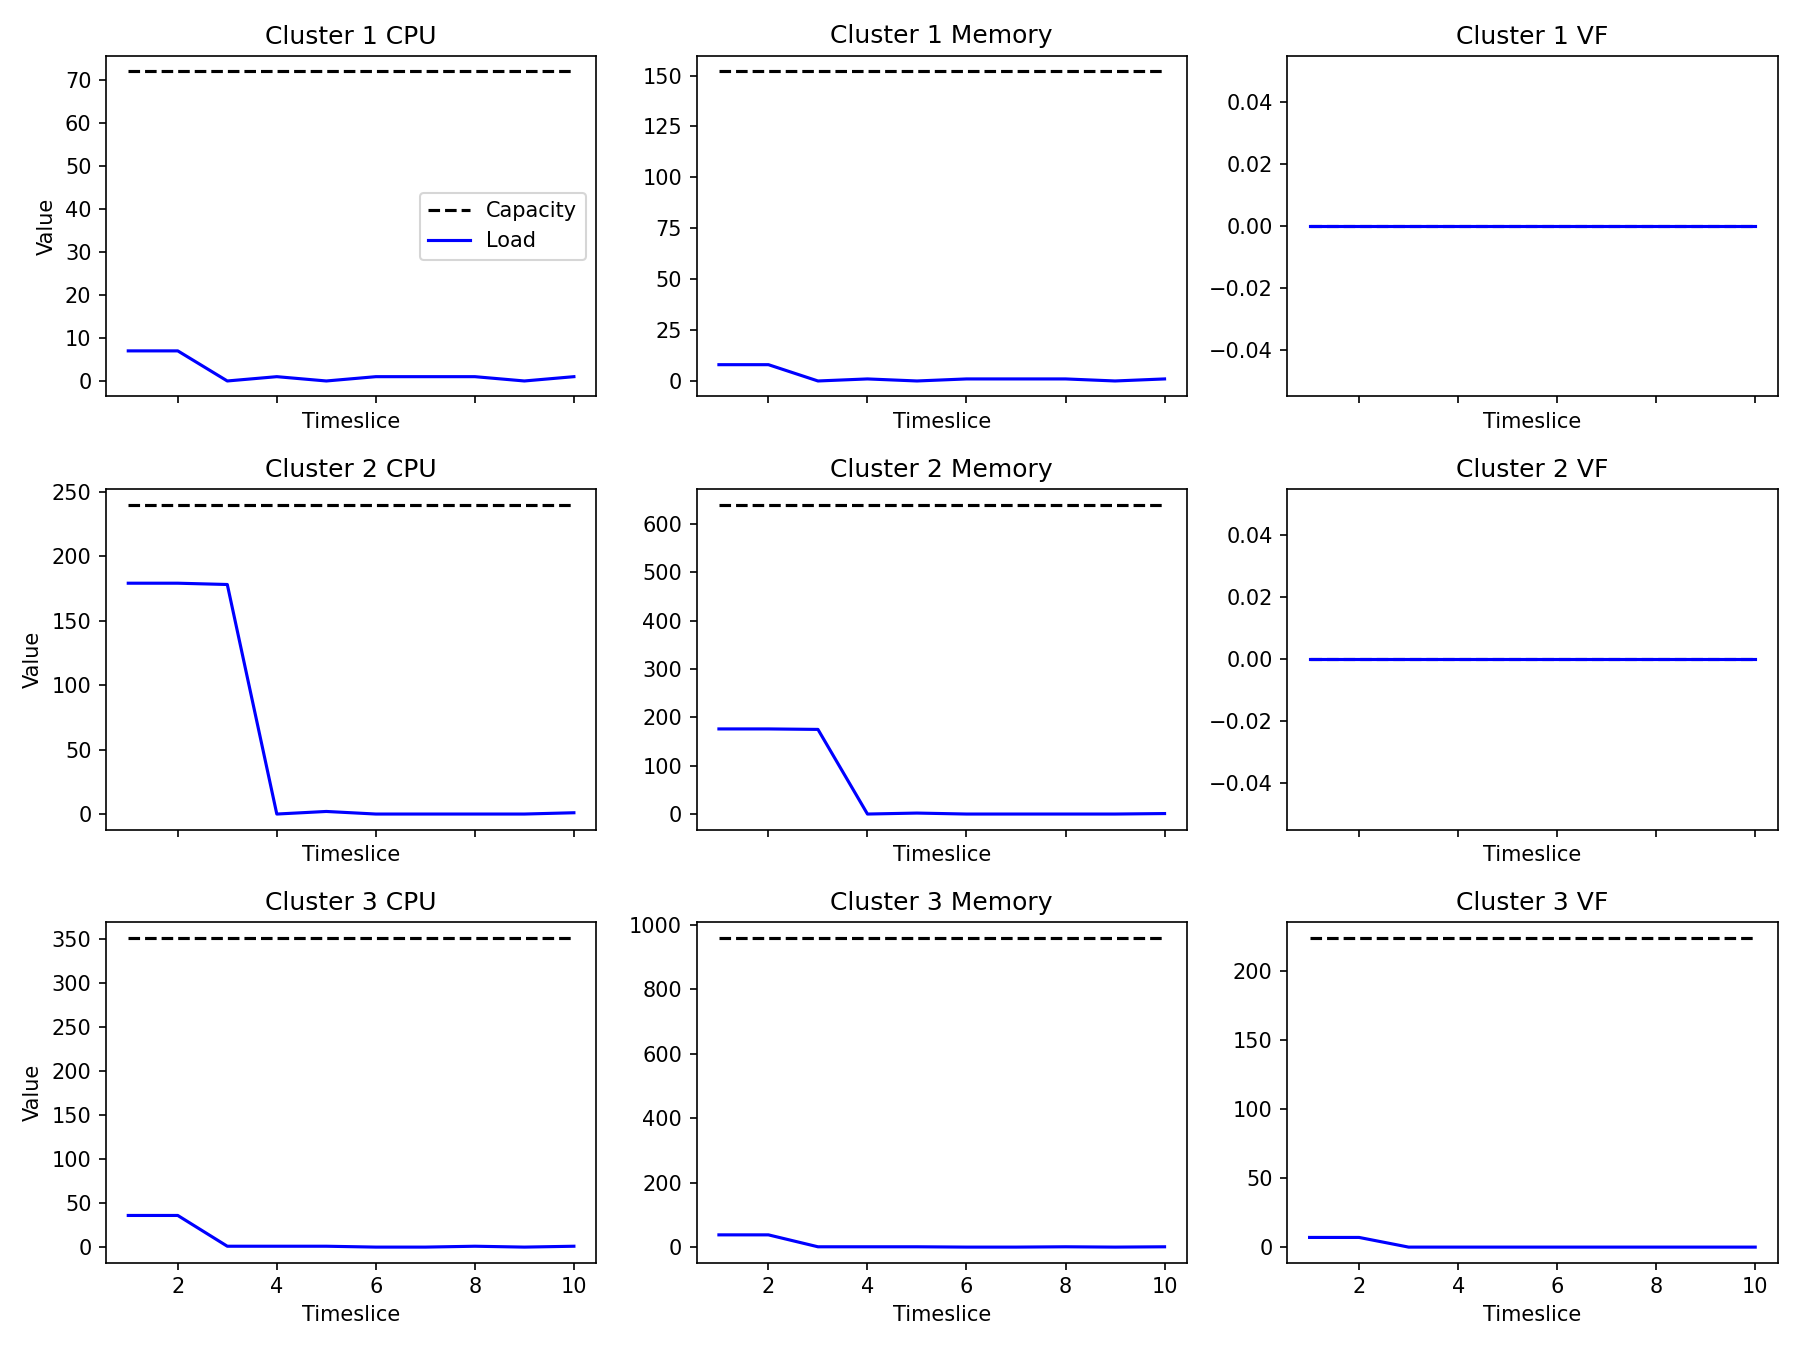
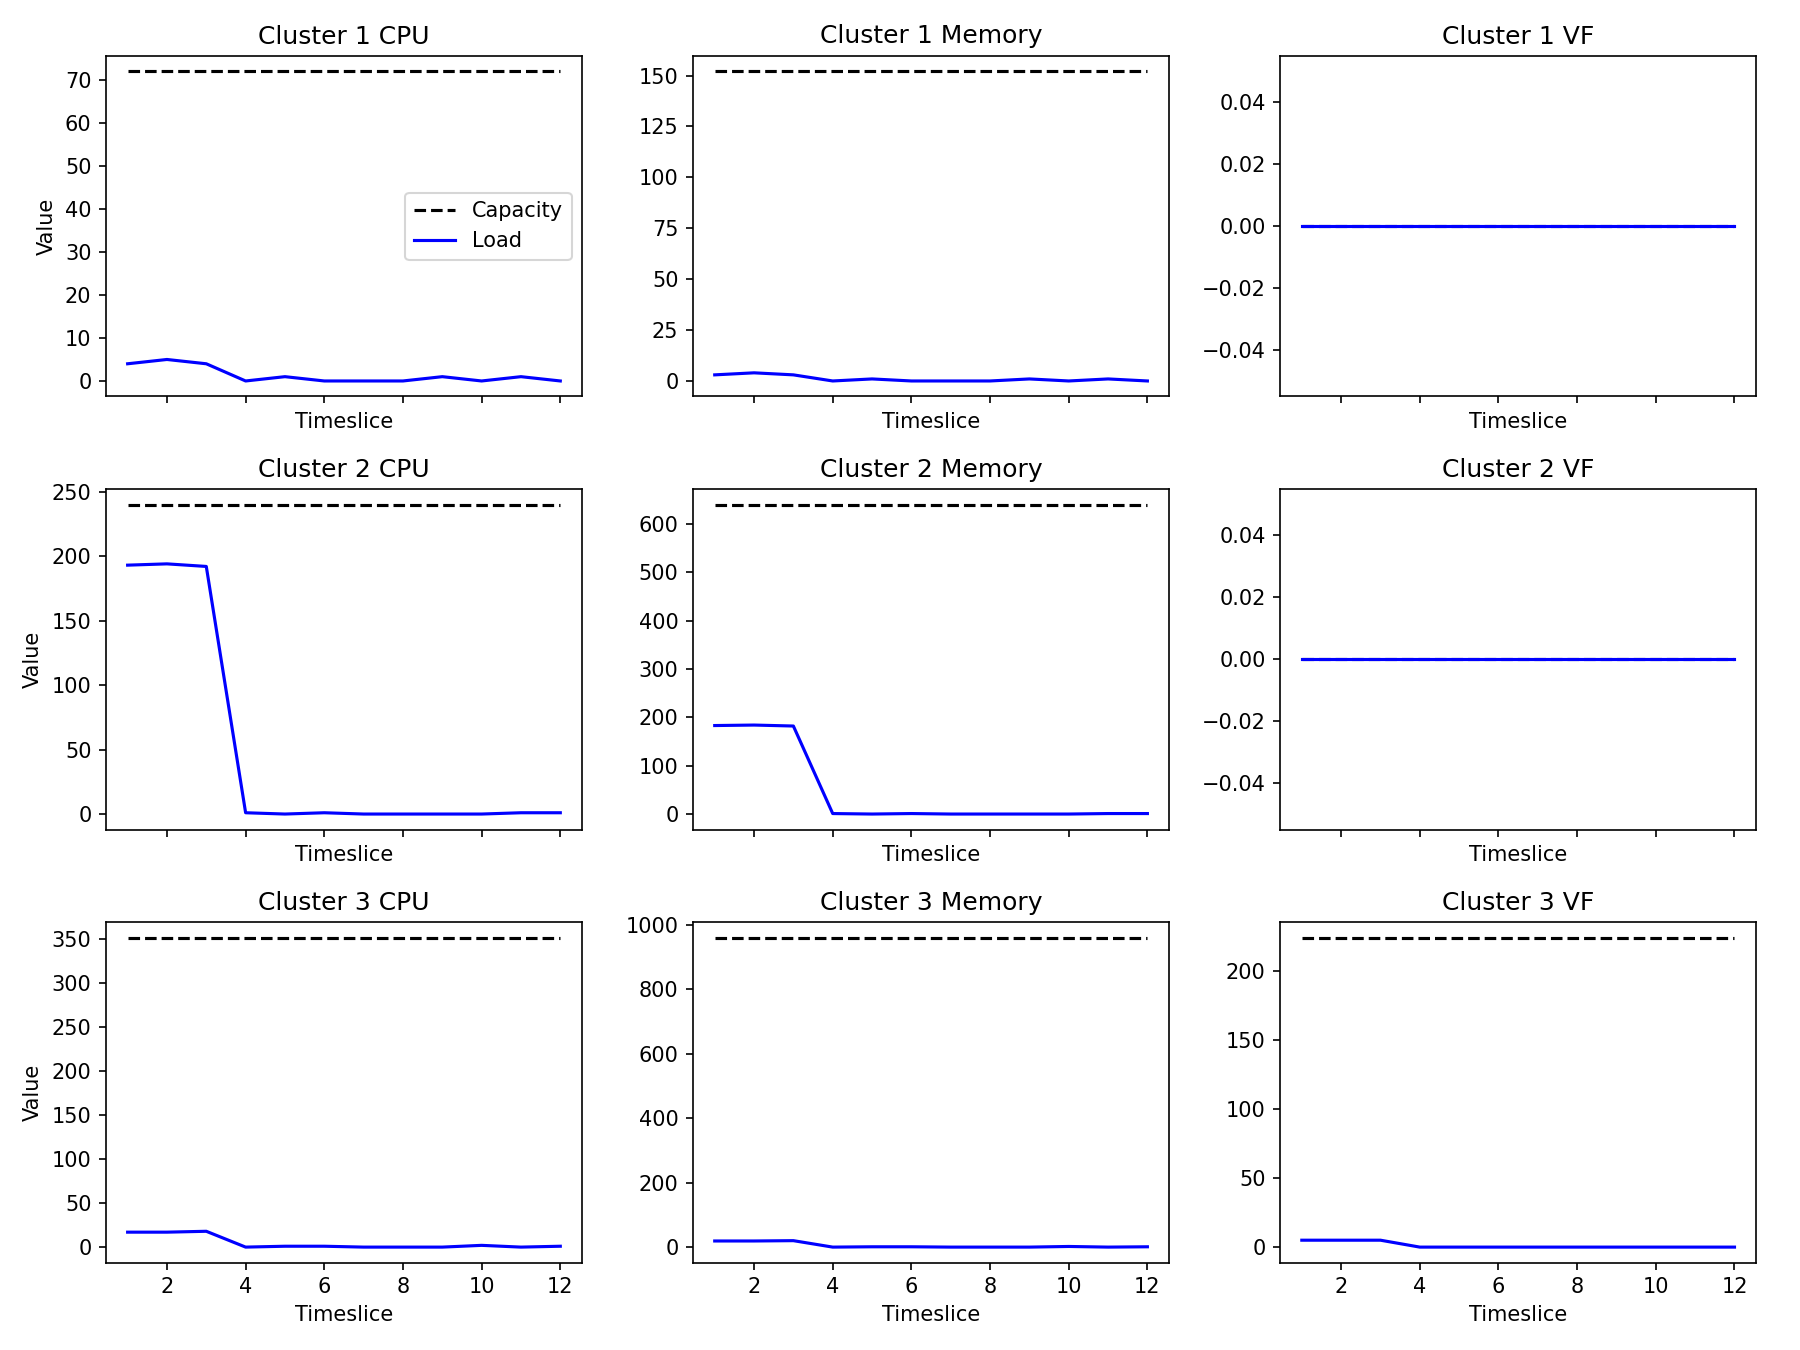
update gen timeslice and high peak

diff --git a/gen_load.py b/gen_load.py
@@ -83,62 +83,64 @@ def build_hot_windows(clusters, T, rng):
     if T < 1 or len(clusters) == 0:
         return hot
 
-    # largest cluster always hot
-    largest = clusters.sort_values("cpu_cap", ascending=False).iloc[0]["id"]
-    win_len = int(rng.integers(max(1, int(0.4 * T)), max(2, int(0.8 * T)) + 1))
-    start = int(rng.integers(1, T - win_len + 2))
-    end = start + win_len - 1
-    hot[largest] = set(range(start, end + 1))
+    cluster_ids = clusters["id"].tolist()
 
-    # other clusters maybe hot
-    for cid in clusters["id"]:
-        if cid == largest:
+    # randomly select 1..N clusters to be "high load" clusters
+    num_high = int(rng.integers(1, len(cluster_ids) + 1))
+    high_load_clusters = rng.choice(cluster_ids, size=num_high, replace=False)
+
+    for cid in cluster_ids:
+        # 30% chance some clusters never go hot
+        if cid not in high_load_clusters and rng.random() < 0.3:
             continue
-        if rng.random() < 0.3:  # 30% chance stay cool
-            continue
-        win_len = int(rng.integers(max(1, int(0.2 * T)), max(2, int(0.6 * T)) + 1))
+
+        # random window length
+        win_len = int(rng.integers(max(1, int(0.3 * T)), max(2, int(0.7 * T)) + 1))
         start = int(rng.integers(1, T - win_len + 2))
         end = start + win_len - 1
         hot[cid] = set(range(start, end + 1))
-    return hot
+
+    print("\nHigh load clusters (near capacity when hot):", high_load_clusters)
+    print(hot)
+
+    return hot, set(high_load_clusters)
 
 
 def compute_targets(clusters, T, hot_windows,
                     hot_frac, cool_frac, global_cap_frac,
-                    vf_hot_frac, vf_cool_frac):
-    """
-    Build per-cluster per-timeslice targets for CPU, MEM, VF.
-    Then scale all clusters in each timeslice so that total CPU <= global_cap_frac * total_cpu_cap.
-    Return dicts: cpu_target[c][t], mem_target[c][t], vf_target[c][t] (1-based t)
-    """
+                    vf_hot_frac, vf_cool_frac,
+                    high_load_clusters=None):
     cluster_ids = clusters["id"].tolist()
     cap_cpu = clusters.set_index("id")["cpu_cap"].to_dict()
     cap_mem = clusters.set_index("id")["mem_cap"].to_dict()
     cap_vf  = clusters.set_index("id")["vf_cap"].to_dict()
     sriov_map = clusters.set_index("id")["sriov_supported"].to_dict()
 
-    # Pre-scale (raw) targets
-    cpu_raw = {c: np.zeros(T, dtype=float) for c in cluster_ids}
-    mem_raw = {c: np.zeros(T, dtype=float) for c in cluster_ids}
-    vf_raw  = {c: np.zeros(T, dtype=float) for c in cluster_ids}
-
-    mem_per_cpu = {c: (cap_mem[c] / float(cap_cpu[c])) if cap_cpu[c] > 0 else 0.0 for c in cluster_ids}
+    cpu_raw, mem_raw, vf_raw = {}, {}, {}
 
     for c in cluster_ids:
+        cpu_raw[c] = np.zeros(T, dtype=float)
+        mem_raw[c] = np.zeros(T, dtype=float)
+        vf_raw[c]  = np.zeros(T, dtype=float)
+
         hot_set = hot_windows.get(c, set())
         for t in range(1, T + 1):
-            frac = hot_frac if t in hot_set else cool_frac
-            cpu_raw[c][t - 1] = frac * cap_cpu[c]
-            mem_raw[c][t - 1] = frac * cap_cpu[c] * mem_per_cpu[c]
-            vf_frac = vf_hot_frac if t in hot_set else vf_cool_frac
-            vf_raw[c][t - 1] = (vf_frac * cap_vf[c]) if sriov_map[c] == 1 else 0.0
+            if t in hot_set:
+                cpu_raw[c][t - 1] = hot_frac * cap_cpu[c]
+                mem_raw[c][t - 1] = hot_frac * cap_mem[c]
+                vf_raw[c][t - 1]  = (vf_hot_frac * cap_vf[c]) if sriov_map[c] == 1 else 0.0
+            else:
+                cpu_raw[c][t - 1] = cool_frac * cap_cpu[c]
+                mem_raw[c][t - 1] = cool_frac * cap_mem[c]
+                vf_raw[c][t - 1]  = (vf_cool_frac * cap_vf[c]) if sriov_map[c] == 1 else 0.0
 
     total_cpu_cap = sum(cap_cpu.values())
-    cpu_target = {c: np.zeros(T, dtype=float) for c in cluster_ids}
-    mem_target = {c: np.zeros(T, dtype=float) for c in cluster_ids}
-    vf_target  = {c: np.zeros(T, dtype=float) for c in cluster_ids}
+    cpu_target, mem_target, vf_target = {}, {}, {}
 
-    largest = clusters.sort_values("cpu_cap", ascending=False).iloc[0]["id"]
+    for c in cluster_ids:
+        cpu_target[c] = np.zeros(T, dtype=float)
+        mem_target[c] = np.zeros(T, dtype=float)
+        vf_target[c]  = np.zeros(T, dtype=float)
 
     for t in range(1, T + 1):
         raw_sum = sum(cpu_raw[c][t - 1] for c in cluster_ids)
@@ -148,15 +150,41 @@ def compute_targets(clusters, T, hot_windows,
             scale = cap_limit / raw_sum
 
         for c in cluster_ids:
-            # largest cluster in hot window → do not scale
-            if c == largest and t in hot_windows.get(c, set()):
-                cpu_target[c][t - 1] = cap_cpu[c] * 0.95  # 95% of capacity
+            if high_load_clusters and c in high_load_clusters and t in hot_windows.get(c, set()):
+                # force near capacity
+                cpu_target[c][t - 1] = cap_cpu[c] * 0.95
                 mem_target[c][t - 1] = cap_mem[c] * 0.95
                 vf_target[c][t - 1]  = cap_vf[c] * 0.95 if sriov_map[c] == 1 else 0.0
             else:
                 cpu_target[c][t - 1] = cpu_raw[c][t - 1] * scale
-                mem_target[c][t - 1] = mem_raw[c][t - 1] * scale
-                vf_target[c][t - 1]  = vf_raw[c][t - 1] * scale
+                mem_target[c][t - 1] = mem_raw[c][t - 1]
+                vf_target[c][t - 1]  = vf_raw[c][t - 1]
+
+    print("\nSample of resource targets after scaling:")
+    for c in cluster_ids:
+        cpu_target[c] = np.rint(cpu_target[c]).astype(int)
+        mem_target[c] = np.rint(mem_target[c]).astype(int)
+        vf_target[c]  = np.rint(vf_target[c]).astype(int)
+
+        # ✅ print as table
+        print(f"\n=== Cluster {c} ===")
+        header = ["t", "CPU", "MEM", "VF"]
+        rows = []
+        for t in range(T):
+            rows.append([
+                t + 1,
+                cpu_target[c][t],
+                mem_target[c][t],
+                vf_target[c][t] if sriov_map[c] == 1 else "N/A"
+            ])
+
+        # pretty-print as aligned table
+        col_widths = [max(len(str(val)) for val in col) for col in zip(*([header] + rows))]
+        row_format = "  ".join("{:<" + str(width) + "}" for width in col_widths)
+
+        print(row_format.format(*header))
+        for row in rows:
+            print(row_format.format(*row))
 
     return cpu_target, mem_target, vf_target
 
@@ -402,14 +430,15 @@ def main():
         print("ERROR: timeslices must be >= 1", file=sys.stderr)
         sys.exit(1)
 
-    hot_windows = build_hot_windows(clusters, T, rng)
+    hot_windows, high_load_clusters = build_hot_windows(clusters, T, rng)
     cpu_target, mem_target, vf_target = compute_targets(
         clusters, T, hot_windows,
         hot_frac=args.hot_frac,
         cool_frac=args.cool_frac,
         global_cap_frac=args.global_cap_frac,
         vf_hot_frac=args.vf_hot_frac,
-        vf_cool_frac=args.vf_cool_frac
+        vf_cool_frac=args.vf_cool_frac,
+        high_load_clusters=high_load_clusters
     )
 
     jobs_df = pack_jobs_from_targets(
